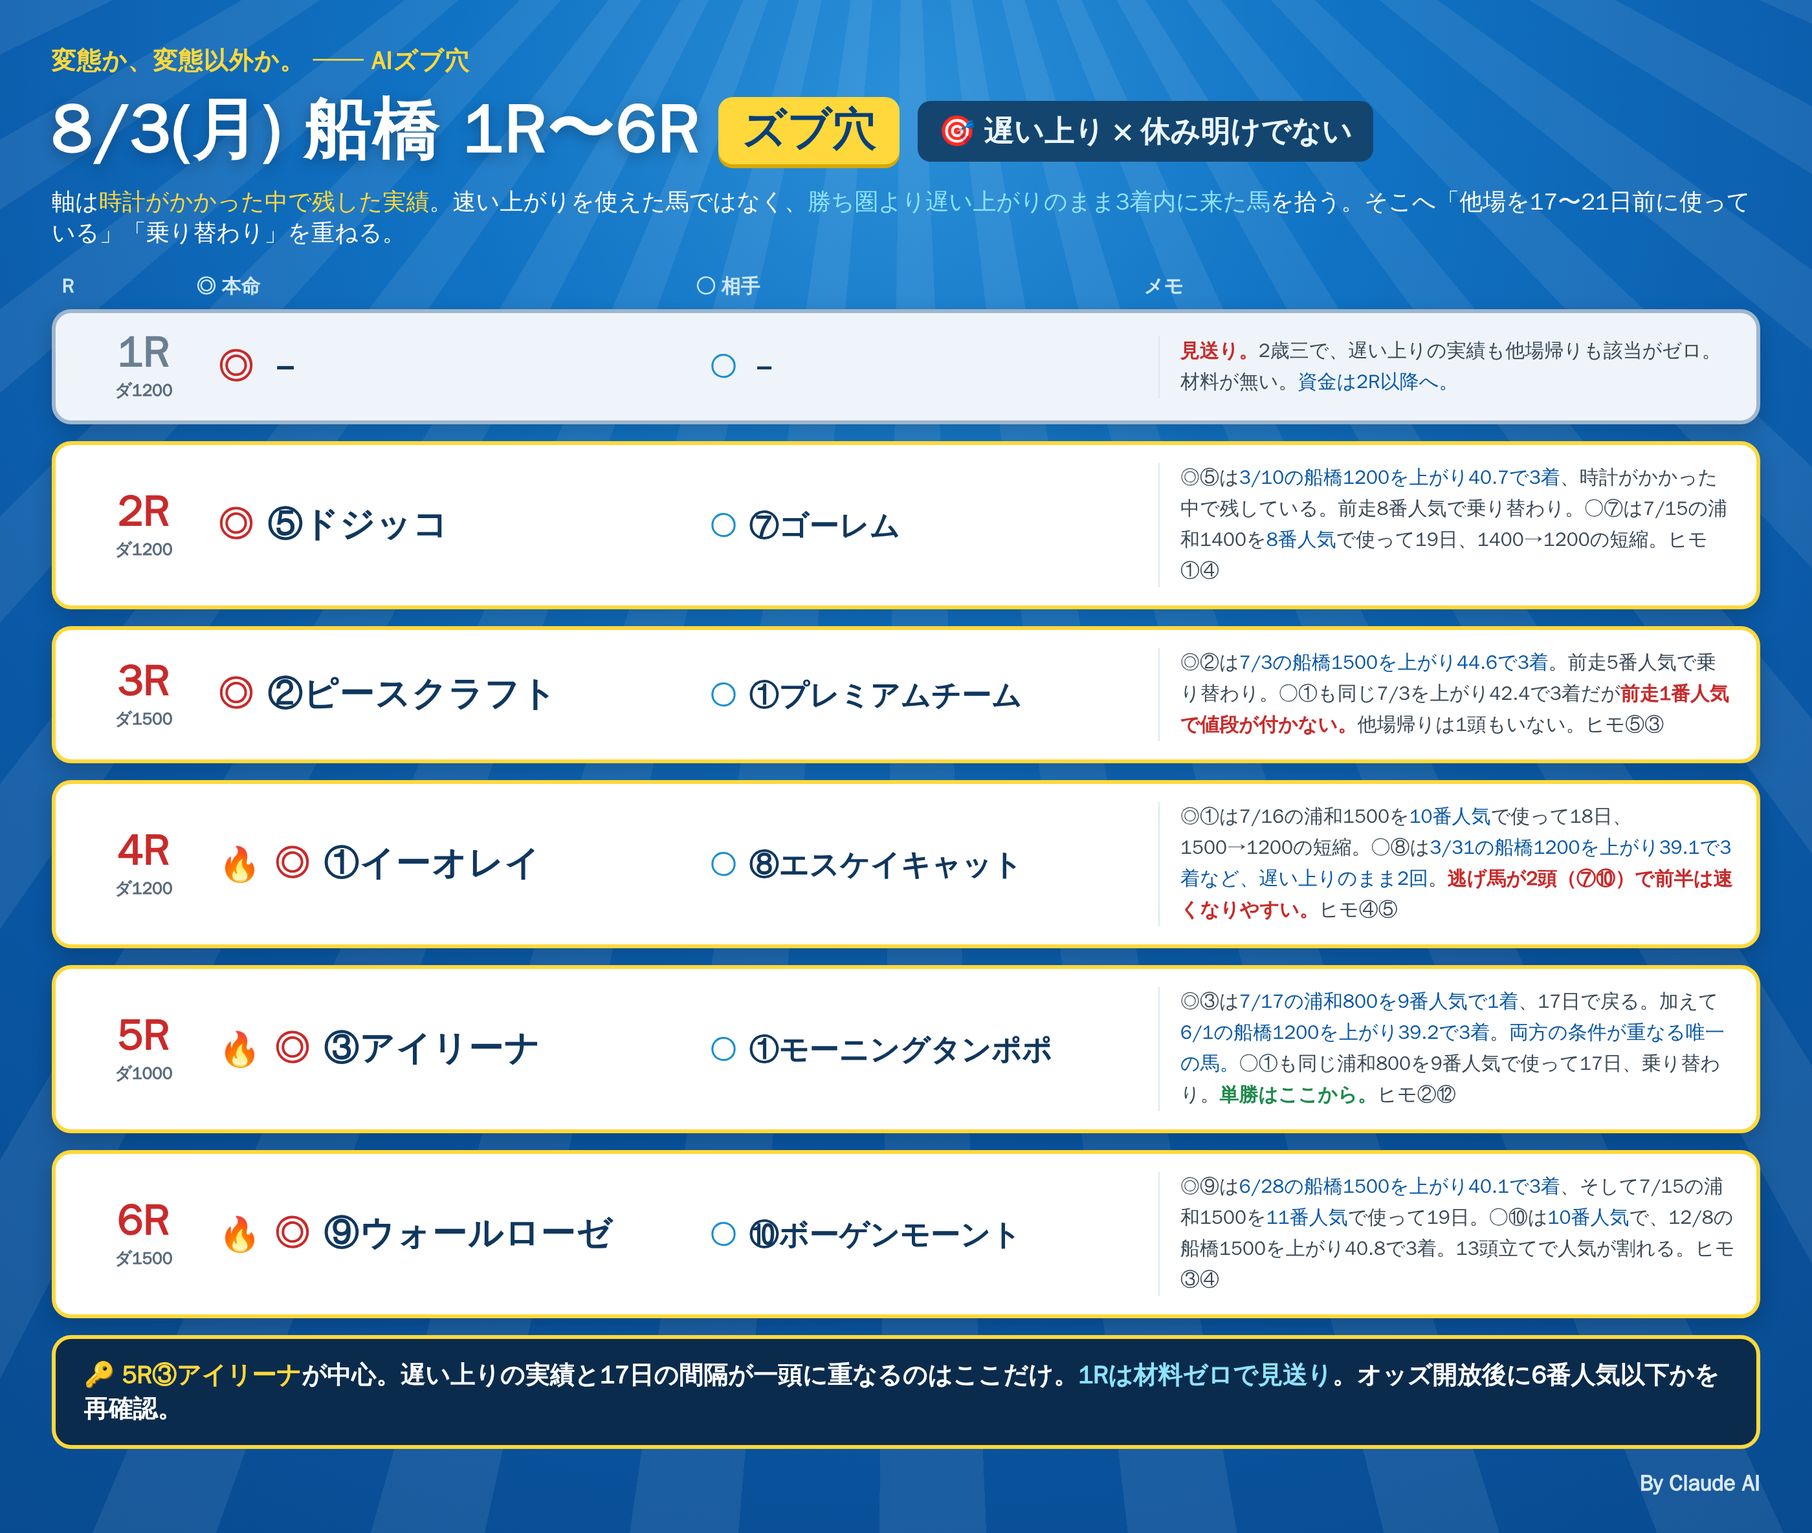
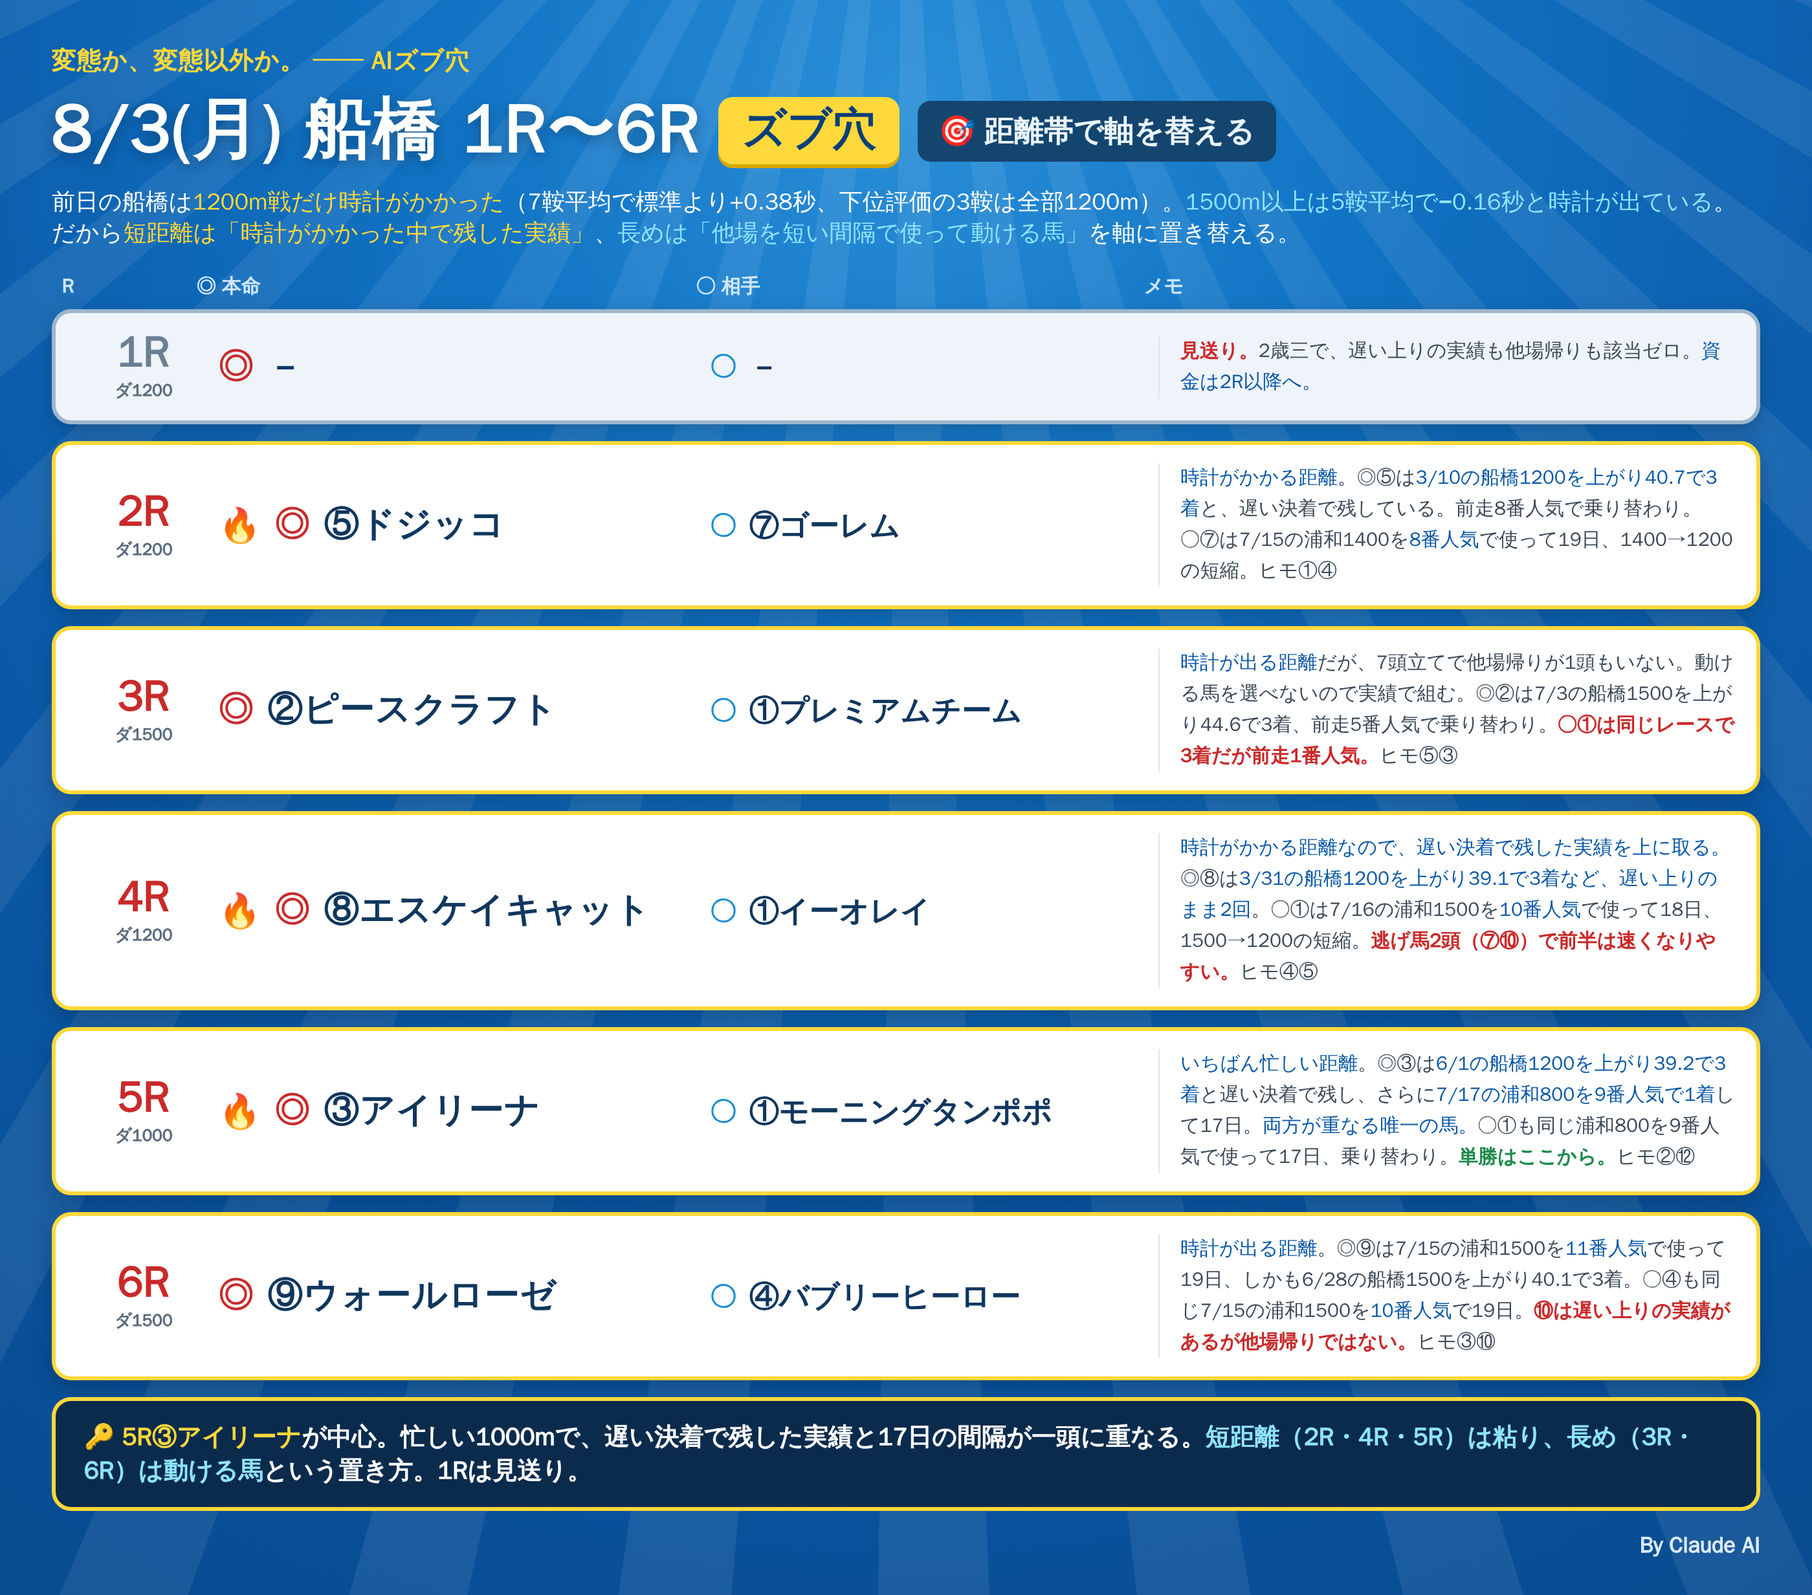
notes: split the 8/3 axis by distance band from Sunday's clock

Changed region(s): [[0.0311, 0.0312, 0.9943, 0.9679], [0.8079, 0.1249, 0.9632, 0.1561]]

diff --git a/notes/live/2026-08-03/funabashi_7_12_blue.html b/notes/live/2026-08-03/funabashi_7_12_blue.html
@@ -47,48 +47,48 @@
   <div class="titleline">
     <div class="title">8/3(月) 船橋 7R〜12R</div>
     <div class="bdg">ズブ穴</div>
-    <div class="bdg2">🎯 遅い上り × 休み明けでない</div>
+    <div class="bdg2">🎯 距離帯で軸を替える</div>
   </div>
-  <div class="lead">軸は<span class="y">時計がかかった中で残した実績</span>。速い上がりを使えた馬ではなく、<span class="c">勝ち圏より遅い上がりのまま3着内に来た馬</span>を拾う。そこへ「他場を17〜21日前に使っている」「乗り替わり」を重ねる。</div>
+  <div class="lead">前日の船橋は<span class="y">1200m戦だけ時計がかかった</span>（7鞍平均で標準より+0.38秒、下位評価の3鞍は全部1200m）。<span class="c">1500m以上は5鞍平均で−0.16秒と時計が出ている</span>。<br>だから<span class="y">短距離は「時計がかかった中で残した実績」</span>、<span class="c">長めは「他場を短い間隔で使って動ける馬」</span>を軸に置き替える。</div>
   <div class="cols"><div class="cR">R</div><div class="cH">◎ 本命</div><div class="cA">○ 相手</div><div class="cM">メモ</div></div>
   <div class="row">
     <div class="rN"><div class="n">7R</div><div class="d">ダ1200</div></div>
     <div class="hm"><span class="fire">🔥</span><span class="mk">◎</span><span class="nm">⑦セイショウフジ</span></div>
     <div class="at"><span class="mk2">○</span><span class="nm2">④イッシンフラン</span></div>
-    <div class="memo">◎⑦は<b>4/2の船橋1200を上がり39.3で3着</b>、前走4番人気で乗り替わり。○④は<b>遅い上りのまま3着内が2回</b>（5/5の1200を39.2など）。<span class='r'>①は同じ実績を持つが前走1番人気。逃げ馬3頭で前半は速くなる。</span>ヒモ②③</div>
+    <div class="memo"><b>時計がかかる距離</b>。◎⑦は<b>4/2の船橋1200を上がり39.3で3着</b>、前走4番人気で乗り替わり。○④は<b>遅い上りのまま3着内が2回</b>。<span class='r'>①は同じ実績を持つが前走1番人気。逃げ馬3頭で前半は速くなる。</span>ヒモ②③</div>
   </div>
   <div class="row">
     <div class="rN"><div class="n">8R</div><div class="d">ダ1200</div></div>
     <div class="hm"><span class="fire">🔥</span><span class="mk">◎</span><span class="nm">⑥コスタデラルス</span></div>
     <div class="at"><span class="mk2">○</span><span class="nm2">⑦シンヒダカゴールド</span></div>
-    <div class="memo">◎⑥は7/16の浦和1400を6番人気で1着、18日で1400→1200の短縮。<b>前日8Rの勝ち馬と同じ形</b>（浦和1400から19日で船橋1200、単1,100円）。○⑦は<b>前走15番人気</b>からの乗り替わりで、値段は最も付く。ヒモ④⑧</div>
+    <div class="memo">◎⑥は7/16の浦和1400を6番人気で1着、18日で<b>1400→1200の短縮</b>。忙しくなる距離でも、長いところから詰める形なら追走が楽。<b>前日8Rの勝ち馬と同じ形</b>（浦和1400から19日で船橋1200、単1,100円）。○⑦は<b>前走15番人気</b>からの乗り替わりで値段が最も付く。ヒモ④⑧</div>
   </div>
   <div class="row">
     <div class="rN"><div class="n">9R</div><div class="d">ダ1500</div></div>
     <div class="hm"><span class="fire">🔥</span><span class="mk">◎</span><span class="nm">⑧テリオスボス</span></div>
     <div class="at"><span class="mk2">○</span><span class="nm2">⑨サージ</span></div>
-    <div class="memo">◎⑧は<b>7/2の船橋1500を上がり41.0で2着</b>と時計がかかった中で残し、7/16の浦和1500を<b>7番人気</b>で使って18日、乗り替わり。<b>3つ全部が重なる。</b>○⑨は7/15の浦和2000を最後方で11着と大敗するが、6/5の船橋1500では1着。<span class='r'>⑦は同じ形だが前走1番人気。</span>ヒモ⑤③</div>
+    <div class="memo"><b>時計が出る距離</b>。◎⑧は7/16の浦和1500を<b>7番人気</b>で使って18日、乗り替わり。加えて7/2の船橋1500を上がり41.0で2着。<b>動ける条件と粘りの実績が両方ある。</b>○⑨は7/15の浦和2000を最後方で11着と大敗して人気を落とすが、6/5の船橋1500では1着、2000→1500の短縮。<span class='r'>⑦は同型だが前走1番人気。</span>ヒモ⑤③</div>
   </div>
   <div class="row">
     <div class="rN"><div class="n">10R</div><div class="d">ダ1600</div></div>
-    <div class="hm"><span class="mk">◎</span><span class="nm">①サドル</span></div>
-    <div class="at"><span class="mk2">○</span><span class="nm2">④ブレイヴアウト</span></div>
-    <div class="memo">◎①は<b>6/1の船橋1600を上がり40.5で3着</b>、前走7番人気で乗り替わり。○④は7/13の浦和1500を<b>9番人気で4着</b>、上がり37.7で21日。<span class='g'>逃げ馬1頭で前半は落ち着く。</span>ヒモ⑩⑨</div>
+    <div class="hm"><span class="mk">◎</span><span class="nm">④ブレイヴアウト</span></div>
+    <div class="at"><span class="mk2">○</span><span class="nm2">①サドル</span></div>
+    <div class="memo"><b>時計が出る距離なので、動ける馬を上に取る。</b>◎④は7/13の浦和1500を<b>9番人気で4着</b>、上がり37.7で21日。○①は6/1の船橋1600を上がり40.5で3着、前走7番人気で乗り替わり。<span class='g'>逃げ馬1頭で前半は落ち着く。</span>ヒモ⑨⑩</div>
   </div>
   <div class="row">
     <div class="rN"><div class="n">11R</div><div class="d">ダ1800</div></div>
     <div class="hm"><span class="mk">◎</span><span class="nm">③ブルーパッション</span></div>
     <div class="at"><span class="mk2">○</span><span class="nm2">⑧ナショナルモール</span></div>
-    <div class="memo">◎③は7/17の浦和1400を7番人気で使って17日、6/29の船橋1600では<b>8番人気で3着</b>。○⑧は<b>7/4の船橋1700を上がり41.9で3着</b>、前走12番人気で乗り替わり。<span class='r'>①は同じ間隔だが前走1番人気。</span>ヒモ④②</div>
+    <div class="memo"><b>時計が出る距離</b>。◎③は7/17の浦和1400を7番人気で使って17日、6/29の船橋1600では<b>8番人気で3着</b>。○⑧は7/4の船橋1700を上がり41.9で3着、<b>前走12番人気</b>で乗り替わり。<span class='r'>①は同じ間隔だが前走1番人気。</span>ヒモ④②</div>
   </div>
   <div class="row">
     <div class="rN"><div class="n">12R</div><div class="d">ダ1800</div></div>
     <div class="hm"><span class="mk">◎</span><span class="nm">⑨キョウエイサマンサ</span></div>
     <div class="at"><span class="mk2">○</span><span class="nm2">③シェナハート</span></div>
-    <div class="memo">◎⑨は7/17の浦和1500を9着で人気を落とすが6/26は同じ舞台で2着、17日で乗り替わり。○③は<b>前走11番人気</b>で浦和2000を18日前に使い、乗り替わり。<span class='r'>⑫は6日前に川崎だが前走2番人気で値段が付かない。</span>ヒモ⑩①</div>
+    <div class="memo"><b>前日は1500mで最も速い決着（完タイム差−0.63）が出た帯</b>。◎⑨は7/17の浦和1500を9着で人気を落とすが6/26は同じ舞台で2着、17日で乗り替わり。○③は<b>前走11番人気</b>で浦和2000を18日前に使い、乗り替わり。<span class='r'>⑫は6日前に川崎だが前走2番人気。</span>ヒモ⑩①</div>
   </div>
 
-  <div class="foot">🔑 単勝は <span class="y">9R⑧テリオスボス</span>。遅い上りの実績・18日の間隔・乗り替わりが一頭に揃うのはここだけ。<span class="c">8R⑥は前日8Rの勝ち馬と同型</span>。他は複勝と3連複の軸に置く。</div>
+  <div class="foot">🔑 単勝は <span class="y">9R⑧テリオスボス</span>。動ける条件と粘りの実績が一頭に揃うのはここだけ。<span class="c">8R⑥は前日8Rの勝ち馬と同型</span>。10Rは時計が出る帯なので◎を④に入れ替えた。</div>
   <div class="sig">By Claude AI</div>
 </div></div>
 </body></html>

diff --git a/notes/live/2026-08-03/funabashi_1_6_blue.html b/notes/live/2026-08-03/funabashi_1_6_blue.html
@@ -47,48 +47,48 @@
   <div class="titleline">
     <div class="title">8/3(月) 船橋 1R〜6R</div>
     <div class="bdg">ズブ穴</div>
-    <div class="bdg2">🎯 遅い上り × 休み明けでない</div>
+    <div class="bdg2">🎯 距離帯で軸を替える</div>
   </div>
-  <div class="lead">軸は<span class="y">時計がかかった中で残した実績</span>。速い上がりを使えた馬ではなく、<span class="c">勝ち圏より遅い上がりのまま3着内に来た馬</span>を拾う。そこへ「他場を17〜21日前に使っている」「乗り替わり」を重ねる。</div>
+  <div class="lead">前日の船橋は<span class="y">1200m戦だけ時計がかかった</span>（7鞍平均で標準より+0.38秒、下位評価の3鞍は全部1200m）。<span class="c">1500m以上は5鞍平均で−0.16秒と時計が出ている</span>。<br>だから<span class="y">短距離は「時計がかかった中で残した実績」</span>、<span class="c">長めは「他場を短い間隔で使って動ける馬」</span>を軸に置き替える。</div>
   <div class="cols"><div class="cR">R</div><div class="cH">◎ 本命</div><div class="cA">○ 相手</div><div class="cM">メモ</div></div>
   <div class="row skip">
     <div class="rN"><div class="n">1R</div><div class="d">ダ1200</div></div>
     <div class="hm"><span class="mk">◎</span><span class="nm">－</span></div>
     <div class="at"><span class="mk2">○</span><span class="nm2">－</span></div>
-    <div class="memo"><span class='r'>見送り。</span>2歳三で、遅い上りの実績も他場帰りも該当がゼロ。材料が無い。<b>資金は2R以降へ。</b></div>
+    <div class="memo"><span class='r'>見送り。</span>2歳三で、遅い上りの実績も他場帰りも該当ゼロ。<b>資金は2R以降へ。</b></div>
   </div>
   <div class="row">
     <div class="rN"><div class="n">2R</div><div class="d">ダ1200</div></div>
-    <div class="hm"><span class="mk">◎</span><span class="nm">⑤ドジッコ</span></div>
+    <div class="hm"><span class="fire">🔥</span><span class="mk">◎</span><span class="nm">⑤ドジッコ</span></div>
     <div class="at"><span class="mk2">○</span><span class="nm2">⑦ゴーレム</span></div>
-    <div class="memo">◎⑤は<b>3/10の船橋1200を上がり40.7で3着</b>、時計がかかった中で残している。前走8番人気で乗り替わり。○⑦は7/15の浦和1400を<b>8番人気</b>で使って19日、1400→1200の短縮。ヒモ①④</div>
+    <div class="memo"><b>時計がかかる距離</b>。◎⑤は<b>3/10の船橋1200を上がり40.7で3着</b>と、遅い決着で残している。前走8番人気で乗り替わり。○⑦は7/15の浦和1400を<b>8番人気</b>で使って19日、1400→1200の短縮。ヒモ①④</div>
   </div>
   <div class="row">
     <div class="rN"><div class="n">3R</div><div class="d">ダ1500</div></div>
     <div class="hm"><span class="mk">◎</span><span class="nm">②ピースクラフト</span></div>
     <div class="at"><span class="mk2">○</span><span class="nm2">①プレミアムチーム</span></div>
-    <div class="memo">◎②は<b>7/3の船橋1500を上がり44.6で3着</b>。前走5番人気で乗り替わり。○①も同じ7/3を上がり42.4で3着だが<span class='r'>前走1番人気で値段が付かない。</span>他場帰りは1頭もいない。ヒモ⑤③</div>
+    <div class="memo"><b>時計が出る距離</b>だが、7頭立てで他場帰りが1頭もいない。動ける馬を選べないので実績で組む。◎②は7/3の船橋1500を上がり44.6で3着、前走5番人気で乗り替わり。<span class='r'>○①は同じレースで3着だが前走1番人気。</span>ヒモ⑤③</div>
   </div>
   <div class="row">
     <div class="rN"><div class="n">4R</div><div class="d">ダ1200</div></div>
-    <div class="hm"><span class="fire">🔥</span><span class="mk">◎</span><span class="nm">①イーオレイ</span></div>
-    <div class="at"><span class="mk2">○</span><span class="nm2">⑧エスケイキャット</span></div>
-    <div class="memo">◎①は7/16の浦和1500を<b>10番人気</b>で使って18日、1500→1200の短縮。○⑧は<b>3/31の船橋1200を上がり39.1で3着など、遅い上りのまま2回</b>。<span class='r'>逃げ馬が2頭（⑦⑩）で前半は速くなりやすい。</span>ヒモ④⑤</div>
+    <div class="hm"><span class="fire">🔥</span><span class="mk">◎</span><span class="nm">⑧エスケイキャット</span></div>
+    <div class="at"><span class="mk2">○</span><span class="nm2">①イーオレイ</span></div>
+    <div class="memo"><b>時計がかかる距離なので、遅い決着で残した実績を上に取る。</b>◎⑧は<b>3/31の船橋1200を上がり39.1で3着など、遅い上りのまま2回</b>。○①は7/16の浦和1500を<b>10番人気</b>で使って18日、1500→1200の短縮。<span class='r'>逃げ馬2頭（⑦⑩）で前半は速くなりやすい。</span>ヒモ④⑤</div>
   </div>
   <div class="row">
     <div class="rN"><div class="n">5R</div><div class="d">ダ1000</div></div>
     <div class="hm"><span class="fire">🔥</span><span class="mk">◎</span><span class="nm">③アイリーナ</span></div>
     <div class="at"><span class="mk2">○</span><span class="nm2">①モーニングタンポポ</span></div>
-    <div class="memo">◎③は<b>7/17の浦和800を9番人気で1着</b>、17日で戻る。加えて<b>6/1の船橋1200を上がり39.2で3着</b>。<b>両方の条件が重なる唯一の馬。</b>○①も同じ浦和800を9番人気で使って17日、乗り替わり。<span class='g'>単勝はここから。</span>ヒモ②⑫</div>
+    <div class="memo"><b>いちばん忙しい距離</b>。◎③は<b>6/1の船橋1200を上がり39.2で3着</b>と遅い決着で残し、さらに<b>7/17の浦和800を9番人気で1着</b>して17日。<b>両方が重なる唯一の馬。</b>○①も同じ浦和800を9番人気で使って17日、乗り替わり。<span class='g'>単勝はここから。</span>ヒモ②⑫</div>
   </div>
   <div class="row">
     <div class="rN"><div class="n">6R</div><div class="d">ダ1500</div></div>
-    <div class="hm"><span class="fire">🔥</span><span class="mk">◎</span><span class="nm">⑨ウォールローゼ</span></div>
-    <div class="at"><span class="mk2">○</span><span class="nm2">⑩ボーゲンモーント</span></div>
-    <div class="memo">◎⑨は<b>6/28の船橋1500を上がり40.1で3着</b>、そして7/15の浦和1500を<b>11番人気</b>で使って19日。○⑩は<b>10番人気</b>で、12/8の船橋1500を上がり40.8で3着。13頭立てで人気が割れる。ヒモ③④</div>
+    <div class="hm"><span class="mk">◎</span><span class="nm">⑨ウォールローゼ</span></div>
+    <div class="at"><span class="mk2">○</span><span class="nm2">④バブリーヒーロー</span></div>
+    <div class="memo"><b>時計が出る距離</b>。◎⑨は7/15の浦和1500を<b>11番人気</b>で使って19日、しかも6/28の船橋1500を上がり40.1で3着。○④も同じ7/15の浦和1500を<b>10番人気</b>で19日。<span class='r'>⑩は遅い上りの実績があるが他場帰りではない。</span>ヒモ③⑩</div>
   </div>
 
-  <div class="foot">🔑 <span class="y">5R③アイリーナ</span>が中心。遅い上りの実績と17日の間隔が一頭に重なるのはここだけ。<span class="c">1Rは材料ゼロで見送り</span>。オッズ開放後に6番人気以下かを再確認。</div>
+  <div class="foot">🔑 <span class="y">5R③アイリーナ</span>が中心。忙しい1000mで、遅い決着で残した実績と17日の間隔が一頭に重なる。<span class="c">短距離（2R・4R・5R）は粘り、長め（3R・6R）は動ける馬</span>という置き方。1Rは見送り。</div>
   <div class="sig">By Claude AI</div>
 </div></div>
 </body></html>
